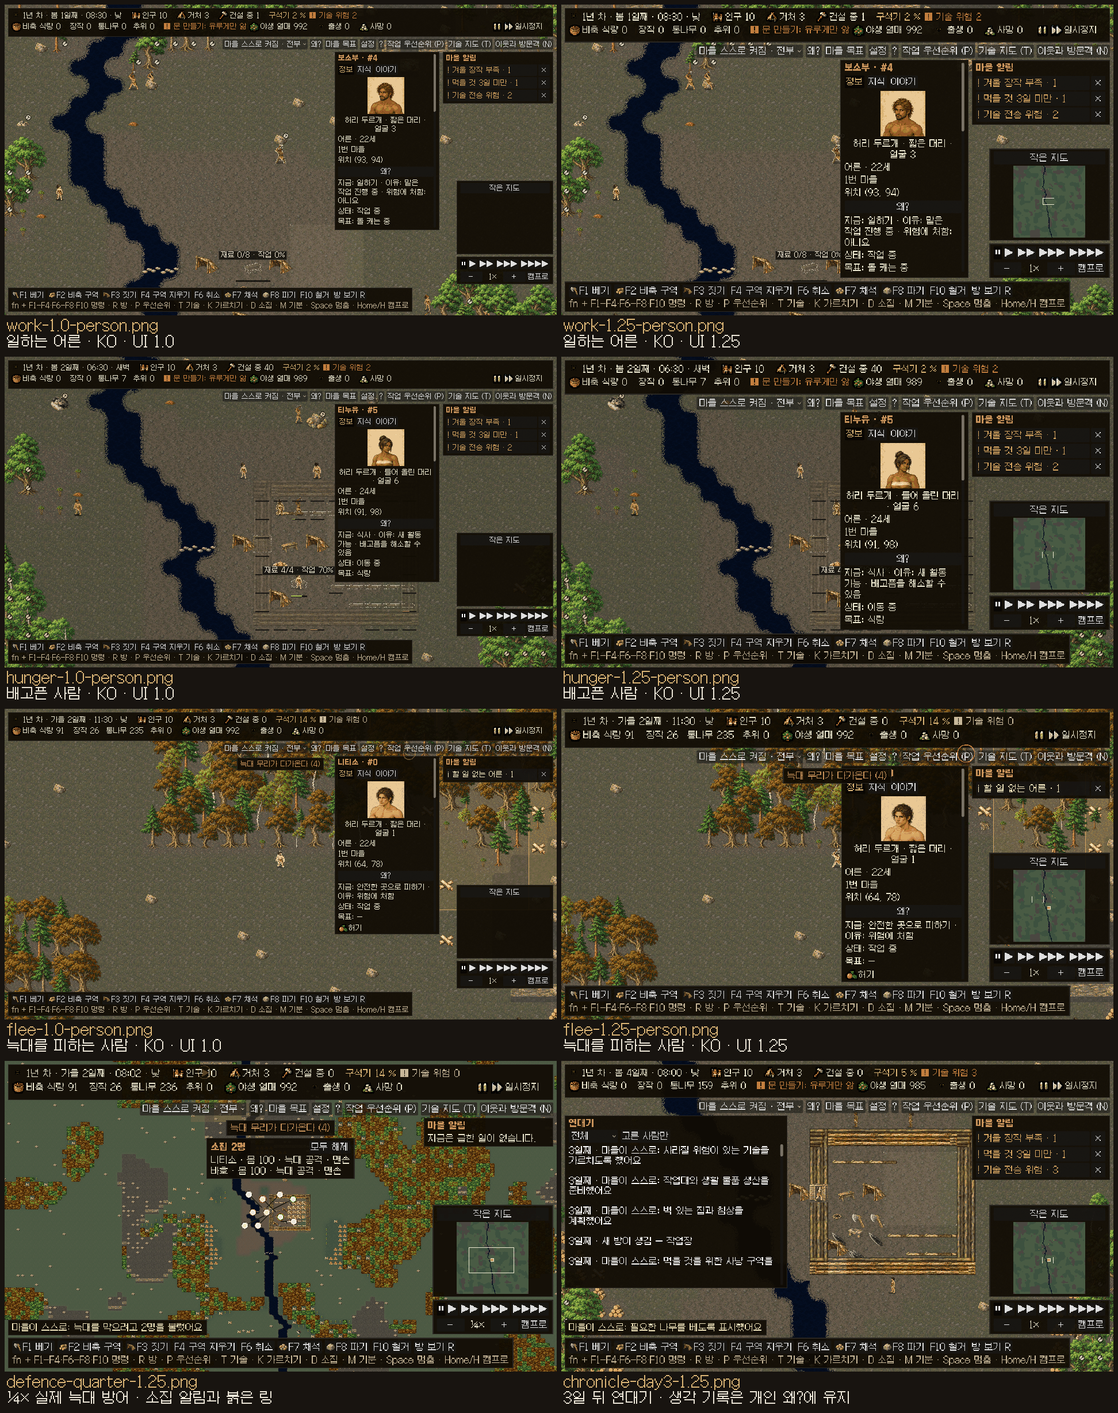
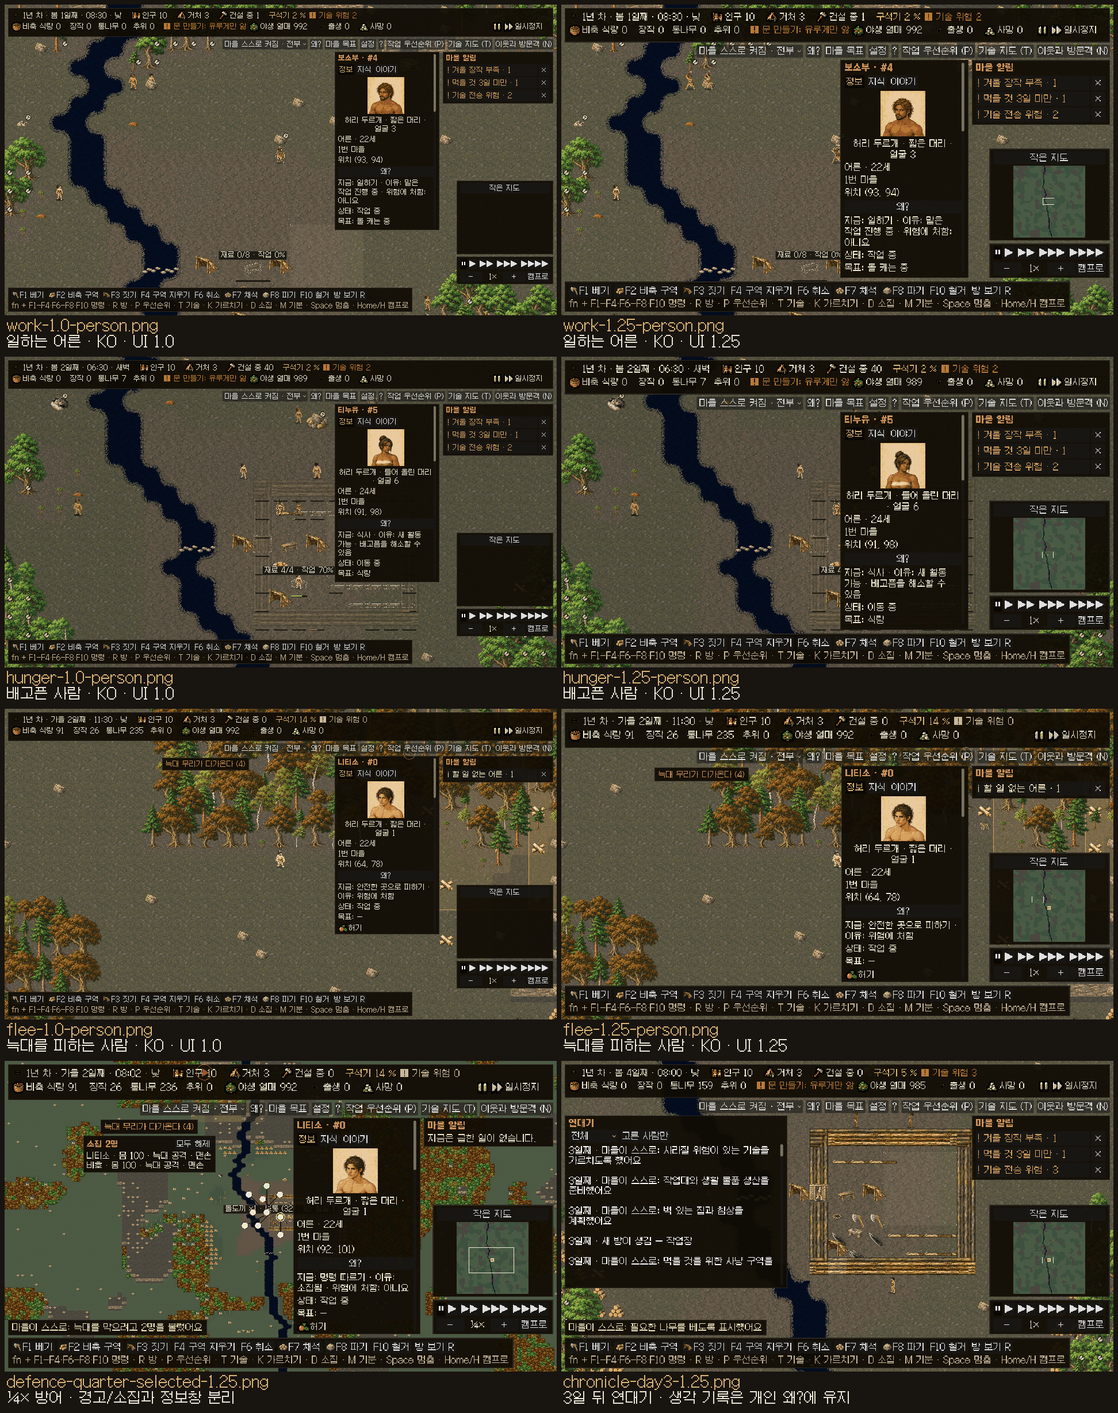
v8-mux21(p16): bind repaired UI captures before final gate
Preserve the first red gate as history while recording the planner correction and newly verified nonoverlapping UI. Keep gate and publication explicitly pending on this final source commit.

Tested: 24 captures visually reviewed; automated capture and geometry assertions; check_docs.sh; diff check
Not-tested: Full gate and GPU visibility on this commit pending
Constraint: Existing seven FPS bars retained by planner; marker and simulation paths unchanged
Directive: Publish only this exact commit after a complete green gate; retain natural rebake issue open
Scope-risk: narrow

diff --git a/docs/ISSUES.md b/docs/ISSUES.md
@@ -373,8 +373,8 @@ M-UX2 게시 시점의 332개 고유 이슈: fixed197 / open103 / deferred30 / w
 
 | ISS-344 | 일반 steward sequence가 바뀌지 않으면 방어 토스트를 놓침 | M-UX2.1 늑대 UI 캡처; mux_hud.gd의 sequence 조기 반환 | bug | open | 방어 chronicle 행은 일반 행동 sequence와 독립적으로 추가되므로 새 알림 조회가 생략됐다. 로컬 미게시 `f7c91a6e4`에서 chronicle cursor로 조회하고 load/rollback·중복 방지를 유지했다. 알림22검사와 최종 두 배율 토스트/¼× 징집·선택 링 캡처 검토 통과. 전체 gate16의 어댑터 통합 오류로 중단·미게시; OPEN 유지. 시뮬레이션 기록은 변경하지 않았으며 게시 전 OPEN 유지 | [#655](https://github.com/hyunlord/new-world/issues/655); ADR0049 |
 
-| ISS-345 | 게시 M-CORE gate가 UI 후속 패스를 패스 전용 예외 없이 검증하지 못함 | M-UX2.1 gate 준비; P3d 도구 동결·옛 성능 BASE·P7 side64 예외 범위 | tooling | open | Rust가 같아도 새 UI 도구가 역사 P3d tool guard에 걸리며 P7 예외는 M-CORE 전용이다. 오너 승인 로컬 미게시 `57f6e7881` 어댑터로 Rust/루트 설정·선언 delta·동결 검증기 의존성을 검증하고 수용된 역사 chain 상속을 명시한다(원래 외부 checkout 검증기 NOT_RERUN). 원래 실패를 보존하고 raw/fixture 재검증 및 새381 BASE 비교를 일반 standing/C3 기준·경쟁 프로세스 감시·deadline으로 요구한다. 집중 어댑터23시험 통과 후 전체 gate16에서 역사 AST 추출 시험이 CORE_UI_CONFIG를 상속해 새 분기의 root/output가 없는 namespace로 들어가 NameError를 냈다(405시험/오류1). 이 패스의 어댑터 통합 결함이며 실제 평가 runtime은 두 변수를 정의한다. red gate 중단 지시에 따라 수정·재실행·게시하지 않았고 새 성능/최종 가시성은 NOT_RUN. 후속 실행은 역사 mapping/test를 보존한 callsite dispatch 분리·새 통합 시험·재봉인·전체 gate가 필요, OPEN 유지 | [#656](https://github.com/hyunlord/new-world/issues/656); [red gate](https://github.com/hyunlord/new-world/issues/656#issuecomment-6462768982); ADR0050 |
+| ISS-345 | 게시 M-CORE gate가 UI 후속 패스를 패스 전용 예외 없이 검증하지 못함 | M-UX2.1 gate 준비; P3d 도구 동결·옛 성능 BASE·P7 side64 예외 범위 | tooling | open | Rust가 같아도 새 UI 도구가 역사 P3d tool guard에 걸리며 P7 예외는 M-CORE 전용이다. 오너 승인 로컬 미게시 `57f6e7881` 어댑터로 Rust/루트 설정·선언 delta·동결 검증기 의존성을 검증하고 수용된 역사 chain 상속을 명시한다(원래 외부 checkout 검증기 NOT_RERUN). 원래 실패를 보존하고 raw/fixture 재검증 및 새381 BASE 비교를 일반 standing/C3 기준·경쟁 프로세스 감시·deadline으로 요구한다. 집중 어댑터23시험 통과 후 전체 gate16에서 역사 AST 추출 시험이 CORE_UI_CONFIG를 상속해 새 분기의 root/output가 없는 namespace로 들어가 NameError를 냈다(405시험/오류1). 이 패스의 어댑터 통합 결함이며 실제 평가 runtime은 두 변수를 정의한다. red gate 중단 지시에 따라 수정·재실행·게시하지 않았고 새 성능/최종 가시성은 NOT_RUN. 16:15KST 지시 후 p15에서 역사 mapping/test를 보존한 callsite dispatch 분리와 독립 추출·위임 회귀를 수정했고 봉인환경 집중28시험 통과. 새 전체 gate·게시 대기로 OPEN 유지 | [#656](https://github.com/hyunlord/new-world/issues/656); [red gate](https://github.com/hyunlord/new-world/issues/656#issuecomment-6462768982); ADR0050 |
 
-| ISS-346 | KO UI1.25의 늑대 경고가 인물 정보창 이름·제목을 가림 | final-a5 독립 시각 검토2건; flee-1.25-person/why 캡처 | bug | open | 로컬 후보 `b0401ca2e`의 늑대 경고가 정보창 이름·제목과 겹친다. 이유 본문과 왜? 팝업은 가리지 않아 요청된 이유 표시 검사와 분리한다. 미수정·부수 발견 UI 잔여이며 후속 배치 수정·두 배율 재검증 필요. 최초 미니맵 공백은 역사 ISS-282/캡처 준비 시점 가능성과 별개이며 이 이슈에 포함하지 않는다 | [#657](https://github.com/hyunlord/new-world/issues/657); `/Users/rexxa/work/mux21-data/resume-20261028/final-a5-visual-review-1.json` · `final-a5-visual-review-2.json` |
+| ISS-346 | KO UI1.25의 늑대 경고가 인물 정보창 이름·제목을 가림 | final-a5 독립 시각 검토2건; flee-1.25-person/why 캡처 | bug | open | 로컬 후보 `b0401ca2e`의 늑대 경고가 정보창 이름·제목과 겹친다. 이유 본문과 왜? 팝업은 가리지 않아 요청된 이유 표시 검사와 분리한다. 16:15KST 후속 p15에서 실제 정보창 경계 왼쪽에 경고/소집 영역을 제한하는 UI-only 수정을 했고 두 배율 재캡처의 비겹침 검사를 통과했다. 전체 gate·게시 전 OPEN 유지. 최초 미니맵 공백은 역사 ISS-282/캡처 준비 시점 가능성과 별개이며 이 이슈에 포함하지 않는다 | [#657](https://github.com/hyunlord/new-world/issues/657); `/Users/rexxa/work/mux21-data/resume-20261028/final-a5-visual-review-1.json` · `final-a5-visual-review-2.json` |
 
 | ISS-347 | 자연 ¼× 재굽기 프레임 합계10.493ms로4ms 목표 초과 | M-UX2.1 candidate-n0-z0.25-a1; 로컬 미게시 b0401ca2e | perf | open | seed0 day3 자연1×·¼× 유효60.002156초, load1 2.81→2.70. 측정17재굽기/16프레임 모두4ms 초과; epoch1/frame12090의 event166 4.824ms+167 5.669ms=10.493ms. 측정 fresh0이며 재굽기 프레임 전체 bake 합계 최대도10.493ms. 원인 미확정·미수정; ISS201/#576 계절 전환 및 ISS030/#515 일반 stall과 구분하고 공통 원인을 단정하지 않는다. FPS 통과로 이 목표 실패를 지우지 않으며 프로파일·수정·동일 조건 재검증 필요 | [#658](https://github.com/hyunlord/new-world/issues/658); `/Users/rexxa/work/mux21-data/resume-20261028/comparison/candidate-n0-z0.25-a1/receipt.json` · `acceptance-summary.json` |

diff --git a/docs/ROADMAP.md b/docs/ROADMAP.md
@@ -30,7 +30,7 @@
 | M-ART2.1 마무리 | M-EXT 전에 게임 화면 마무리: 05 물결 물과 둥근 물가(거리장), 밤에도 지키는 물–땅 대비, ART-TREES 여름 초록 수종과 계절(가을 단풍·겨울 앙상함·소나무 눈, 첫날 서서히), ¼×에서 숲을 바닥에 굽는 수관 덩어리, 가구 색 표지 테두리, D19 게이트 | 강이 물결 그림에 둥근 물가로 땅과 구분되고, 나무가 계절 따라 바뀌며, ¼×가 지도처럼 보인다 | 끝 (2026-10-24, `3a51636d` 게이트 34단계 통과, [보고서](v8/m_art2_1/MART21_REPORT.md)): 물가 반지름 22 px·곧은 물가 0 px, 밤 최소 휘도 차 0.108, 수종 해석기 352경우 일치, 여름 수관 채도 0.58–0.62, ¼× 다섯 지형 최소 ΔE 14.1; FPS 1× 290.2·½× 190.2·¼× 242.8, 1,000명 ½× 149.1·¼× 137.5 — 오너 플레이 대기(덤불 크기·가을 ¼× 색 등 결정 6건) |
 | M-UX 맥 조작·안내·마을 스스로 | 트랙패드·화면 버튼·미니맵·데이터 기반 도움말/경고/학습, 기본 자동 지시와 읽기 쉬운 물·눈 | 조작을 찾을 수 있고 기본 정착 작업이 자동으로 진행된다 | Stage A 기술 gate3 PASS 및 게시 (2026-10-25, `ca9f531ca6ef700ca223d99dba14d834b94b45da`, clean 35/35, 10:30 KST wip/main 확인). A8 수용 FAILED·물리 트랙패드 미검증·ISS030 지연 미해결; 범위와 수치는 [Stage A 보고](v8/mux/STAGE_A_REPORT.md). M-EXT B 게시 완료; C gate1 36/36; gate2 35/36 FAIL(bench), 원장314·OPEN107 모두GitHub등록, 최종 문서 HEAD 재검증 후 게시 |
 | M-UX2 두 번째 플레이 피드백 | ½× 인물·¼× 표식, 왜? 패널, 방어·도망·장작, 끊김·한국어 | 오너 D-A..D-C: 노출 장작20/20 PASS, 새 N100·½×≥60FPS 게시 조건 | **오너 수정 조건 수용 · p18 게시**: 오너 D-A..D-C에 따른 p18 [b19f91b15f8ad1b4f6b140b17d0d7960e895a4cd](https://github.com/hyunlord/new-world/commit/b19f91b15f8ad1b4f6b140b17d0d7960e895a4cd)를 v8/wip와 v8/main에 게시했다. 노출 장작20/20 PASS와 N100½×164.882764487796FPS가 새 수용 조건을 충족했다. 원래20/32 FAIL, 1000명35.98FPS의 M11 이월, 재굽기7.239ms와 이전 stall 실패는 보존한다. 전체 게이트41/41은 p16에 귀속되며 p19 문서 후속에 새 전체 게이트를 주장하지 않는다. ISS030 OPEN·반복성 미입증. |
-| M-UX2.1 ¼× 성능 회귀 | 세 빌드 비교·표식 배치 캐시·M-CORE UI 확인 | ¼× FPS 막대와 기존 표식 가시성·전체 gate 통과 | **BLOCKED·RED GATE·미게시 (2026-10-28)**: FPS7/7 VALID/PASS·KO 이유/왜?·연대기·방어 화면 확인, 자연 재굽기10.493ms로4ms 목표 미달. clean `6ed4e1996` gate1–15 exit0,16 Python NameError(root) FAIL,17 중단·18–46 및 최종GPU NOT_RUN. stop-on-red로 수정/재시험/push 없음; 원격 main/wip381 유지. ISS343–347 OPEN; [보고](v8/mux2_1/MUX21_REPORT.md), [이전 차단](v8/mux2_1/MUX21_BLOCKED_20261026.md). |
+| M-UX2.1 ¼× 성능 회귀 | 세 빌드 비교·표식 배치 캐시·M-CORE UI 확인 | ¼× FPS 막대와 기존 표식 가시성·전체 gate 통과 | **재검증 중·미게시 (2026-10-28 16:15KST 후속)**: p15 어댑터·UI겹침 수정과 재캡처 완료, 최종전체gate 대기. 이전 시도 기록: FPS7/7 VALID/PASS·KO 이유/왜?·연대기·방어 화면 확인, 자연 재굽기10.493ms로4ms 목표 미달. clean `6ed4e1996` gate1–15 exit0,16 Python NameError(root) FAIL,17 중단·18–46 및 최종GPU NOT_RUN. stop-on-red로 수정/재시험/push 없음; 원격 main/wip381 유지. ISS343–347 OPEN; [보고](v8/mux2_1/MUX21_REPORT.md), [이전 차단](v8/mux2_1/MUX21_BLOCKED_20261026.md). |
 | M-EXT 확장성 | ADR 0033의 빚 갚기: 아이템·레시피·압력·동물을 데이터와 태그로, 각각 "데이터만으로 추가" 시험; M5.5 오너 결정(수용 시 인구 상한, 교역 물건 규칙, 고기를 화덕 옆에, F4·F9 막대 산수, 이주민 거절 −5 유지) | 새 아이템·레시피·동물이 코드 수정 없이 들어간다 | 진행 중: core e90b7bb86·압력/동물/B3 76f572fff·B6 c9ed292d7 검증, B4 P/T/H 개별 검증·커밋 후 고정 홀드아웃 VALID/PASS ([결과](v8/mux/B4_HELDOUT_VERIFICATION.md)); B5 Rust·저장·창54검사 통과, 원본/OFF/ON 안전망 확인, 제품 커밋 `3c39dcbe0`. B gate2 36/36 및 게시 완료 (`5e20c65a1`); Top/Designation 등 잔여 부채는 [이슈 원장](ISSUES.md); C gate1 36/36, 문서 마감 gate 후 게시 |
 | M2 물건과 제작 | 재료 연결(돌·부싯돌 노드와 물건), 작업장, 제작 주문, 작업 우선순위 표, 기술과 품질, 장작을 일감으로 | 부싯돌을 주문하면 돌깎이가 만들고, 숙련도에 따라 품질이 다르다 | 완료 (2026-10-22, 게이트 통과 커밋 `c0af2eb7`, `docs/v8/m2/M2_REPORT.md`; 평가 E1·E3·E5·E6·E9·E10 통과, E2·E4·E7·E8 실패 — 시나리오가 하루에 끝나 도끼 사용·제작 몫·기술 성장을 못 보였고, 결정 틱 점유율은 −2.7포인트) — 오너 플레이 대기 |
 | M-PERF 성능 (이전) | 욕구의 f32 → 정수 전환, 결정 틱 해체, 틱 점유율 상위 시스템 | 이전 성능 목표 | 대체됨: [깊이 로드맵](v8/DEPTH_ROADMAP.md)의 M-CORE 성능 막대와 M11 |

diff --git a/docs/v8/mux2_1/MUX21_REPORT.md b/docs/v8/mux2_1/MUX21_REPORT.md
@@ -1,5 +1,23 @@
 ## 구현 완료 보고 — M-UX2.1
 
+### 2026-10-28 16:15 KST 지시 후속 — 전체 게이트 재검증 대기
+
+이하 RED GATE 본문은 이전 시도 기록으로 보존한다. 새 지시는 일반 red gate를 수정·전체 재실행하도록 정정했다(D19). `9934ef0f2`에서 독립 추출되는 performance_gate를 원래 순수 함수로 복원하고 UI 검증을 실제 호출부로 옮겼다. 봉인 환경에서 새 successor27시험과 기존 실패 시험1개가 통과했다. step12/27 측정 입장 설정은 자식에만 적용하며 P7 수용 예외를 켜지 않는다.
+
+ISS-346은 실제 정보창 경계를 경고/소집 영역이 침범하지 않도록 UI 배치만 수정했다. 마커 경로·Rust는 바뀌지 않았으며 오너 지시에 따라 기존 FPS7/7을 유지한다. 일/배고픔/도주 정보창6장·왜?6장, 연대기2장, 방어4장을 재캡처했고 오류0이다. ¼× 방어·선택 이동6장도 오류0이며 토스트와 소집 링을 유지한다. 독립 시각 검토24/24 PASS로 두 배율의 경고/소집과 정보창 제목·초상 비겹침, 이유 가독성과 링을 확인했다. [시각 검토](/Users/rexxa/work/mux21-data/resume-20261028/continuation-1615/visual-review.json). [재캡처 실행](/Users/rexxa/work/mux21-data/resume-20261028/continuation-1615/capture-runs.json), [¼× 근거](/Users/rexxa/work/mux21-data/resume-20261028/continuation-1615/capture-quarter-defence-a1/evidence.json).
+
+| 재캡처 | KO1.0 | KO1.25 |
+|---|---|---|
+| 일 | [정보창](/Users/rexxa/work/mux21-data/resume-20261028/continuation-1615/capture-work-a1/work-1.0-person.png) | [정보창](/Users/rexxa/work/mux21-data/resume-20261028/continuation-1615/capture-work-a1/work-1.25-person.png) |
+| 배고픔 | [정보창](/Users/rexxa/work/mux21-data/resume-20261028/continuation-1615/capture-hunger-a1/hunger-1.0-person.png) | [정보창](/Users/rexxa/work/mux21-data/resume-20261028/continuation-1615/capture-hunger-a1/hunger-1.25-person.png) |
+| 도주 | [정보창](/Users/rexxa/work/mux21-data/resume-20261028/continuation-1615/capture-flee-a1/flee-1.0-person.png) | [정보창](/Users/rexxa/work/mux21-data/resume-20261028/continuation-1615/capture-flee-a1/flee-1.25-person.png) |
+| 연대기 | [화면](/Users/rexxa/work/mux21-data/resume-20261028/continuation-1615/capture-chronicle-a1/chronicle-day3-1.0.png) | [화면](/Users/rexxa/work/mux21-data/resume-20261028/continuation-1615/capture-chronicle-a1/chronicle-day3-1.25.png) |
+| 방어·선택·정보창 | [화면](/Users/rexxa/work/mux21-data/resume-20261028/continuation-1615/capture-quarter-defence-a1/defence-quarter-selected-1.0.png) | [화면](/Users/rexxa/work/mux21-data/resume-20261028/continuation-1615/capture-quarter-defence-a1/defence-quarter-selected-1.25.png) |
+
+이 문서를 포함한 최종 커밋을 새로 봉인해 step1부터 전체 게이트를 실행한다. 작성 시점 전체 게이트·GPU 수용·게시는 PENDING이며 성공을 미리 선언하지 않는다. 최신 실행 결과는 외부 `continuation-1615/full-gate/`와 최종 Korean addendum에 귀속한다. ISS343–346은 게시 전 OPEN, 자연 재굽기10.493ms의 ISS347/#658과 ISS030/#515는 계속 OPEN이다.
+
+### 이전 시도: 6ed4e1996의 실패 기록
+
 **BLOCKED · RED GATE · NOT_PUBLISHED.** 오너 지정 제목이며 전체 완료 선언이 아니다. 필수 FPS7/7과 요청 화면 검증은 완료했지만, 전체 gate의16번 Python 시험이 실패해 stop-on-red 규칙으로 중단했다. 수정·재시험·재게이트·게시를 하지 않았다. 측정 소스는 `b0401ca2e40de0ee972d451b3c4c1ecf0c1fa816`, 실패 gate 소스는 `6ed4e19966ec368812441c4f12a74fca22ae251b`다. 외부 최종 측정 감사는 두 HEAD의 런타임 동일성을 확인한다. 이 실패 종료 문서 후속 HEAD는 전체 gate를 거치지 않았다.
 
 2026-10-28 재개 기준은 게시 M-CORE `3814828c06d1a7a211b13b54368e4e0a488cc0e3`, 브랜치는 `v8/mux2-1b`다. 원래 브랜치와 [2026-10-26 차단 보고](MUX21_BLOCKED_20261026.md)는 보존했다. [최종 측정 감사](/Users/rexxa/work/mux21-data/resume-20261028/final-measurement-audit.json).

diff --git a/README.md b/README.md
@@ -11,7 +11,7 @@
 
 > 현재 정착지는 방과 창고, 제작·작업 우선순위, 기술 전승, 징집, 이주민·교역을 갖춘 정착지다. 기본 확대는 1×이고 64px 타일과 채택된 사람·자연 아트를 쓴다. 아래의 첫 플레이 순서와 전체 조작표로 시작한다.
 
-**M-UX2.1 RED GATE·미게시:** clean `6ed4e1996`의16번 Python 시험 NameError(root)로 중단했으며 수정·재시험·push하지 않았다. 최종 GPU 재검사는 NOT_RUN이다. [실패 종료 보고](docs/v8/mux2_1/MUX21_REPORT.md). **추가 확인 화면:** [정보창 이유·연대기·방어 8장](docs/images/mux_contact_sheet.png) (FPS7/7 통과·요청 화면 확인, 전체 gate16번 실패로 BLOCKED·미게시; 자연 재굽기10.493ms 목표 미달)과 [물·물가·겨울 눈 비교](docs/images/mux_compare_sheet.png). [Stage A 보고](docs/v8/mux/STAGE_A_REPORT.md)의 기술 gate3는 `ca9f531ca6ef700ca223d99dba14d834b94b45da`에서 clean35/35 통과하고 2026-10-25 10:30 KST에 게시됐다. 이후 Stage B는 [나무 검증](docs/v8/mux/B5_VERIFICATION.md)과 [고정 B4 평가](docs/v8/mux/B4_HELDOUT_VERIFICATION.md)를 확보했으며 전체 gate·게시는 대기다. A8 수용은 **FAILED**, 물리 트랙패드 검증은 미완료이며, ISS030의 반복73–99ms·시작 포함 최대 약650/646ms 지연은 남아 있다(미니맵345µs 상한은 정지 tick1 장면만의 결과이며 전체 UI/FPS 판정이 아니다).
+**M-UX2.1 재검증 중·미게시:** 16:15KST 플래너 지시에 따라 어댑터 오류와 UI1.25 정보창 겹침을 수정하고 화면을 다시 확인했다. 최종 전체 게이트·GPU 검증은 진행 전이며 이전 실패를 보존한다. [후속 보고](docs/v8/mux2_1/MUX21_REPORT.md). **추가 확인 화면:** [정보창 이유·연대기·방어 8장](docs/images/mux_contact_sheet.png) (FPS7/7 유지·정보창 겹침 수정 재캡처; 최종 gate·게시 대기, 자연 재굽기10.493ms 목표 미달)과 [물·물가·겨울 눈 비교](docs/images/mux_compare_sheet.png). [Stage A 보고](docs/v8/mux/STAGE_A_REPORT.md)의 기술 gate3는 `ca9f531ca6ef700ca223d99dba14d834b94b45da`에서 clean35/35 통과하고 2026-10-25 10:30 KST에 게시됐다. 이후 Stage B는 [나무 검증](docs/v8/mux/B5_VERIFICATION.md)과 [고정 B4 평가](docs/v8/mux/B4_HELDOUT_VERIFICATION.md)를 확보했으며 전체 gate·게시는 대기다. A8 수용은 **FAILED**, 물리 트랙패드 검증은 미완료이며, ISS030의 반복73–99ms·시작 포함 최대 약650/646ms 지연은 남아 있다(미니맵345µs 상한은 정지 tick1 장면만의 결과이며 전체 UI/FPS 판정이 아니다).
 
 ## 빌드와 실행
 

diff --git a/.claude/skills/worldsim-testing/SKILL.md b/.claude/skills/worldsim-testing/SKILL.md
@@ -269,3 +269,6 @@ A successful create may precede list visibility. Durably record the pending iden
 
 ### Bounded benchmark diagnosis
 Quiet admission below the existing load ceiling is not proof of stable execution conditions, and a later step's load is not the failed benchmark's load. Preserve the exact failing gate, source/lock hashes and every per-repeat value. Before a diagnostic, register a fixed interleaved schedule, binary hashes and comparison scope; keep every run, including contended pairs, and never rerun until a desired result appears. Separate unchanged-source evidence, equal simulation outcomes and timing observations from causal attribution. Focused comparisons do not authorize publication, threshold/ledger changes or a justification waiver; a new clean-head full gate is distinct evidence and cannot erase the first failure. Source: MUX D49, ISS314 and docs/LESSONS.md section27.
+
+### Keep extracted gate mappings independent of caller context
+A frozen test may AST-extract a mapping function into an empty namespace. Adding an environment-selected branch that references caller globals can pass focused tests yet fail under the sealed gate environment. Keep the pure historical mapping standalone, dispatch context-dependent validation at its actual caller, and test standalone extraction with the new environment variable present plus both dispatch paths and failure propagation. Do not clear the feature flag globally or weaken the frozen test. Source: M-UX2.1 D18–D19; `test_core_ui_successor_dispatch.py`.

diff --git a/docs/HISTORY.md b/docs/HISTORY.md
@@ -6,6 +6,10 @@
 >
 > 규칙: 마일스톤이 끝나거나 무언가를 지울 때 이 문서에 줄을 더한다.
 
+## M-UX2.1 재검증 지시 (2026-10-28 16:15KST)
+
+- 플래너가 일반 red gate의 수정·전체 재실행을 승인했다. p15에서 독립 performance mapping과 실제 UI dispatch를 분리하고 정보창과 경고/소집 겹침을 수정했다. 봉인환경 집중28시험과 새 UI24장 캡처 자동검사 통과; 기존 FPS7막대 유지, 최종 전체 gate/게시는 대기다. 아래 실패 기록은 지우지 않는다.
+
 ## M-UX2.1 재개 — RED GATE·BLOCKED·미게시 (2026-10-28)
 
 - 2026-10-28 — 게시381 기준 조용한3빌드12/12와 표식24.570ms 진단 후 배치 캐시/타일 목표를 수정했다. b040의 필수 FPS7/7 VALID/PASS와 KO 정보창/왜?·연대기·방어 화면 검증을 완료했지만 자연 재굽기10.493ms는4ms 목표 미달이다. clean6ed4e1996 전체 gate는1–15 exit0(debug2595/release2594·각8ignored, identity228748값·64chronicles19683항목 동일),16 Python405시험/errors1 NameError(root)로 FAIL. 소유 PGID만 중단해17 INTERRUPTED,18–46 NOT_RUN·최종GPU NOT_RUN; actual/wrapper-15·deadlinefalse다. step12 legacy perf는 반복 입장 근거가 없어 새 수용값으로 쓰지 않는다. stop-on-red에 따라 수정·재시험·재게이트·게시 없음, 원격 main/wip는381 유지. ISS343–347 OPEN, 종료 문서 후속은 NOT_FULL_GATED; [보고](v8/mux2_1/MUX21_REPORT.md).

diff --git a/CHANGELOG.md b/CHANGELOG.md
@@ -5,6 +5,15 @@ Older history (pre-V7, V7, revitalize passes 1–21, art passes 1–13b, world-m
 WM-1–6) is summarised in [docs/HISTORY.md](docs/HISTORY.md); the full record is at
 tags `v7-final-sim` and `v7-final-art`.
 
+## M-UX2.1 continuation — 2026-10-28 16:15 KST (final gate pending)
+
+### Changed
+- Restore standalone legacy performance mapping and dispatch UI validation from its bound caller; add extraction/delegation/failure regressions.
+- Admit UI successor report-only perf/nav repetitions without leaking P7 acceptance mode.
+- Reserve inspector space in warning/draft roster layout; recapture Korean1.0/1.25 inspector/chronicle/defence with actual nonoverlap assertions.
+
+Marker and simulation paths unchanged; owner retains seven FPS bars. Full gate/publication pending; original failed attempt below remains preserved. Natural rebake10.493ms remains open.
+
 ## M-UX2.1 resume — 2026-10-28 (red gate, blocked, not published)
 
 ### Added
